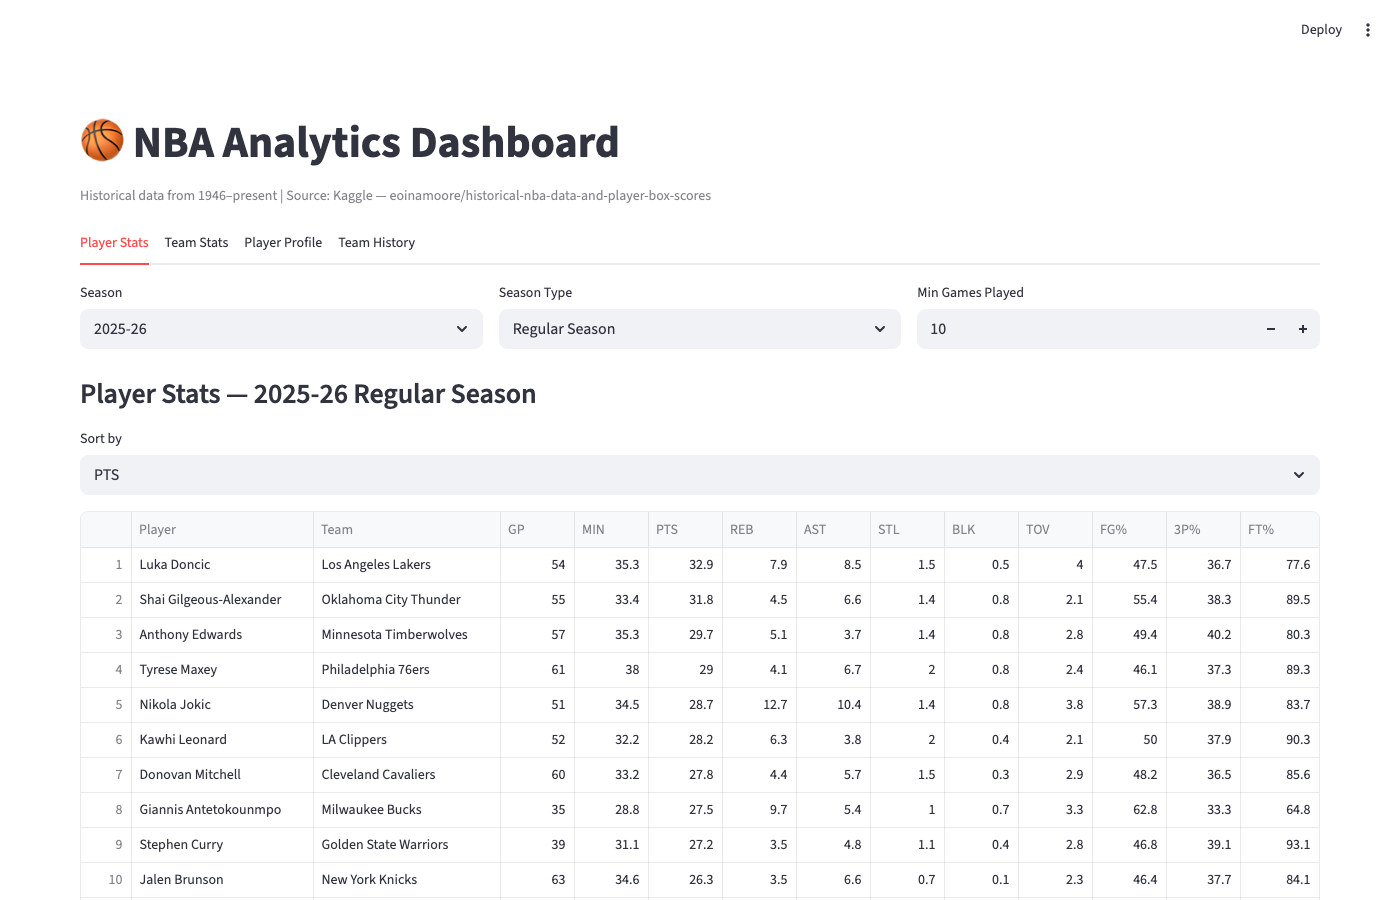
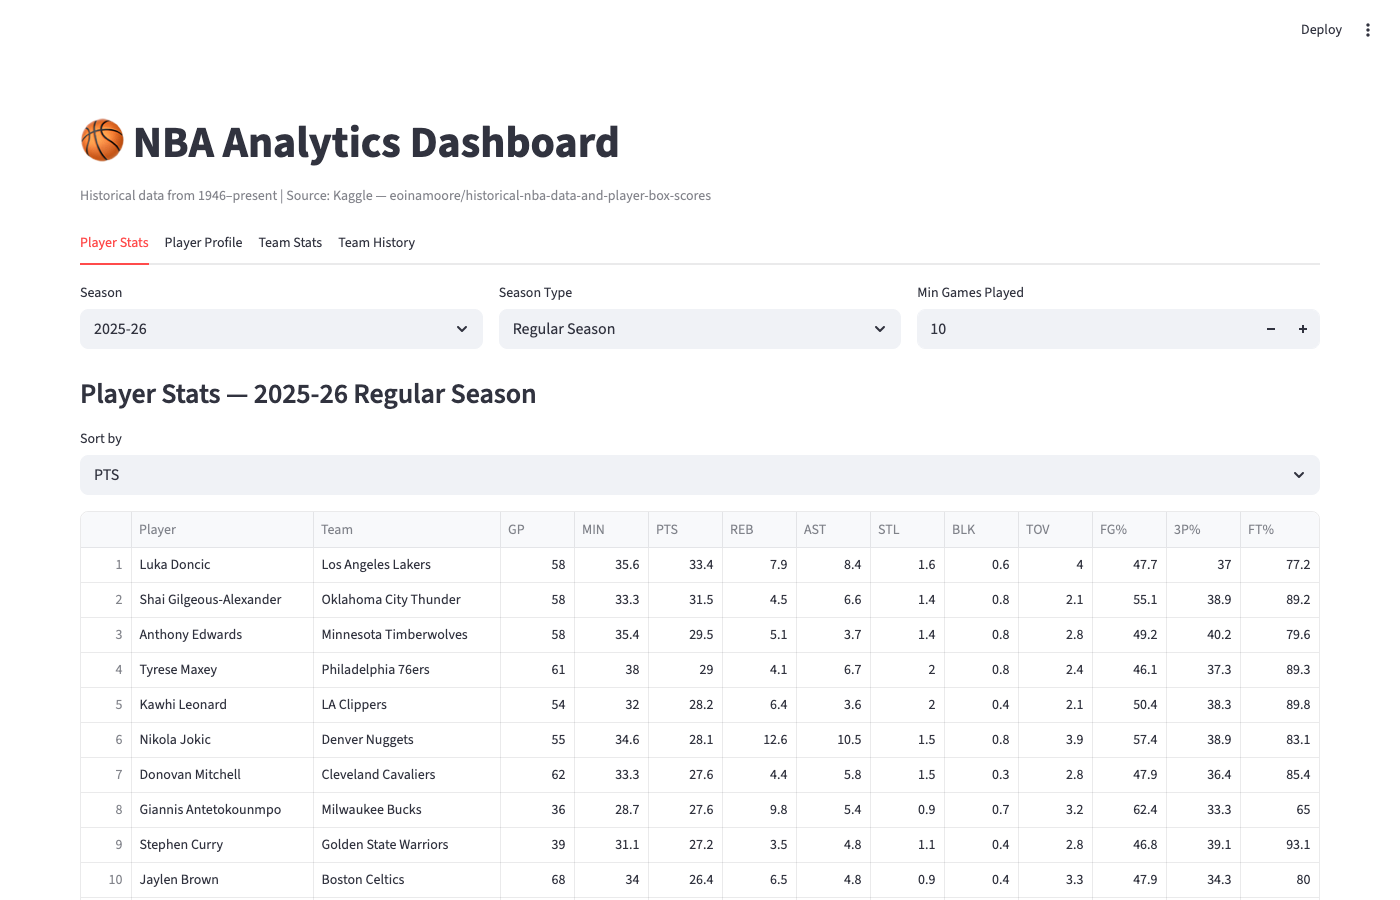
Update README screenshots and add screenshot automation script
Retook all 4 tab screenshots to reflect new tab order (Player Stats,
Player Profile, Team Stats, Team History). Added take_screenshots.py
using Playwright to automate future screenshot updates.

diff --git a/take_screenshots.py b/take_screenshots.py
@@ -1,0 +1,69 @@
+"""Take screenshots of each tab in the NBA Analytics Dashboard."""
+import subprocess
+import time
+import sys
+from playwright.sync_api import sync_playwright
+
+URL = "http://localhost:8501"
+
+TABS = [
+    ("Player Stats",   "docs/screenshot.png"),
+    ("Player Profile", "docs/screenshot_player_profile.png"),
+    ("Team Stats",     "docs/screenshot_team_stats.png"),
+    ("Team History",   "docs/screenshot_team_history.png"),
+]
+
+
+def wait_for_app(page, timeout=60):
+    print("Waiting for app to load...")
+    page.wait_for_selector('[data-testid="stAppViewContainer"]', timeout=timeout * 1000)
+    # Wait for spinners to disappear
+    page.wait_for_function(
+        "() => document.querySelectorAll('[data-testid=\"stSpinner\"]').length === 0",
+        timeout=timeout * 1000,
+    )
+    time.sleep(2)
+
+
+def take_screenshots(proc):
+    with sync_playwright() as p:
+        browser = p.chromium.launch()
+        page = browser.new_page(viewport={"width": 1400, "height": 900})
+        page.goto(URL)
+        wait_for_app(page)
+
+        for tab_label, output_path in TABS:
+            print(f"  Screenshotting: {tab_label} -> {output_path}")
+            tab = page.get_by_role("tab", name=tab_label)
+            tab.click()
+            # Wait for any spinners to clear after tab switch
+            page.wait_for_function(
+                "() => document.querySelectorAll('[data-testid=\"stSpinner\"]').length === 0",
+                timeout=30000,
+            )
+            time.sleep(2)
+            page.screenshot(path=output_path, full_page=False)
+
+        browser.close()
+    print("Done.")
+
+
+def main():
+    print("Starting Streamlit...")
+    proc = subprocess.Popen(
+        ["uv", "run", "streamlit", "run", "app.py",
+         "--server.headless", "true",
+         "--server.port", "8501"],
+        stdout=subprocess.DEVNULL,
+        stderr=subprocess.DEVNULL,
+    )
+    try:
+        time.sleep(8)
+        take_screenshots(proc)
+    finally:
+        proc.terminate()
+        proc.wait()
+
+
+if __name__ == "__main__":
+    main()
